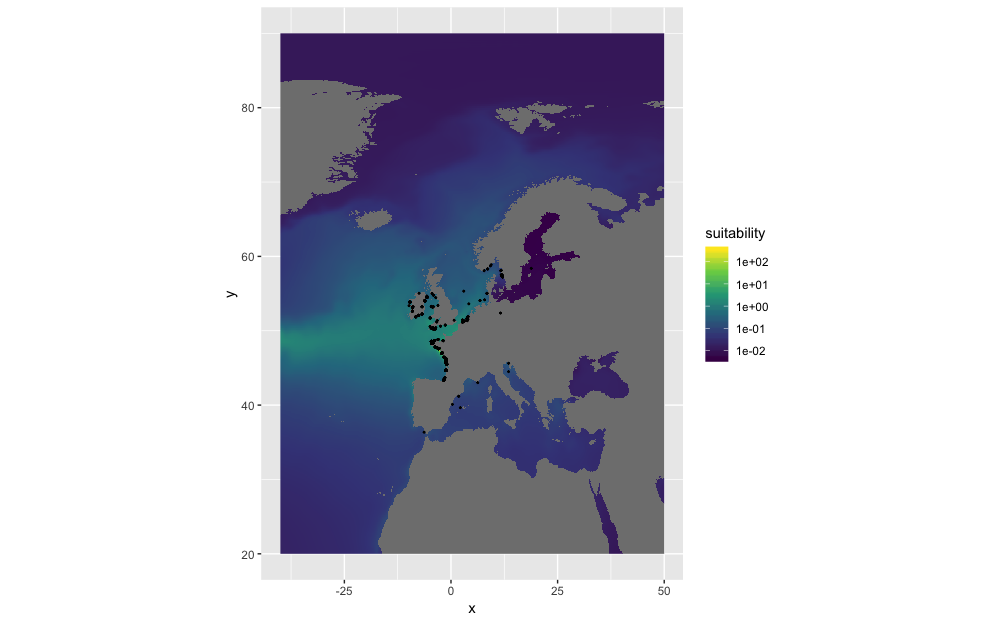
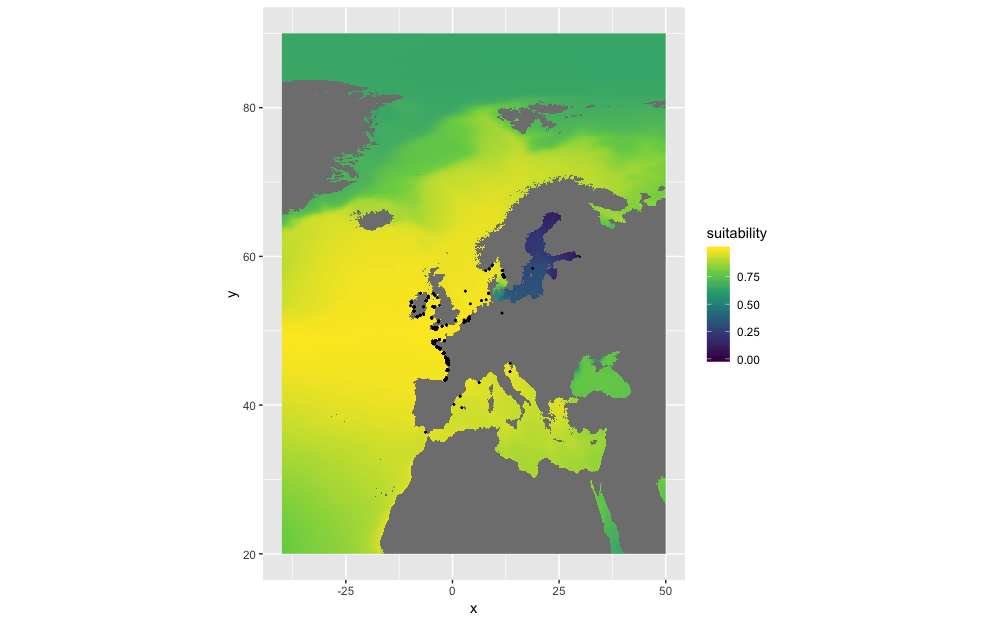
readme

diff --git a/README.md b/README.md
@@ -36,16 +36,15 @@ sal <- get_biooracle_salinity()
 plot_niche(occ, temp, sal)
 hs <- make_suitability(occ, temp, sal)
 
-df <- as.data.frame(hs, xy = TRUE) %>%
-  mutate(suitability = 1 / layer)
+df <- as.data.frame(hs, xy = TRUE)
 ggplot() +
     geom_raster(data = df, aes(x = x, y = y, fill = suitability)) +
-    scale_fill_viridis_c(trans = "log10") +
+    scale_fill_viridis_c() +
     coord_quickmap() +
     geom_point(data = occ, aes(x = longitude, y = latitude), size = 0.3)
 ```
 
-![suitability](suitability.png)
+![suitability](crassostrea_gigas.png)
 
 #### Launch shiny app
 
